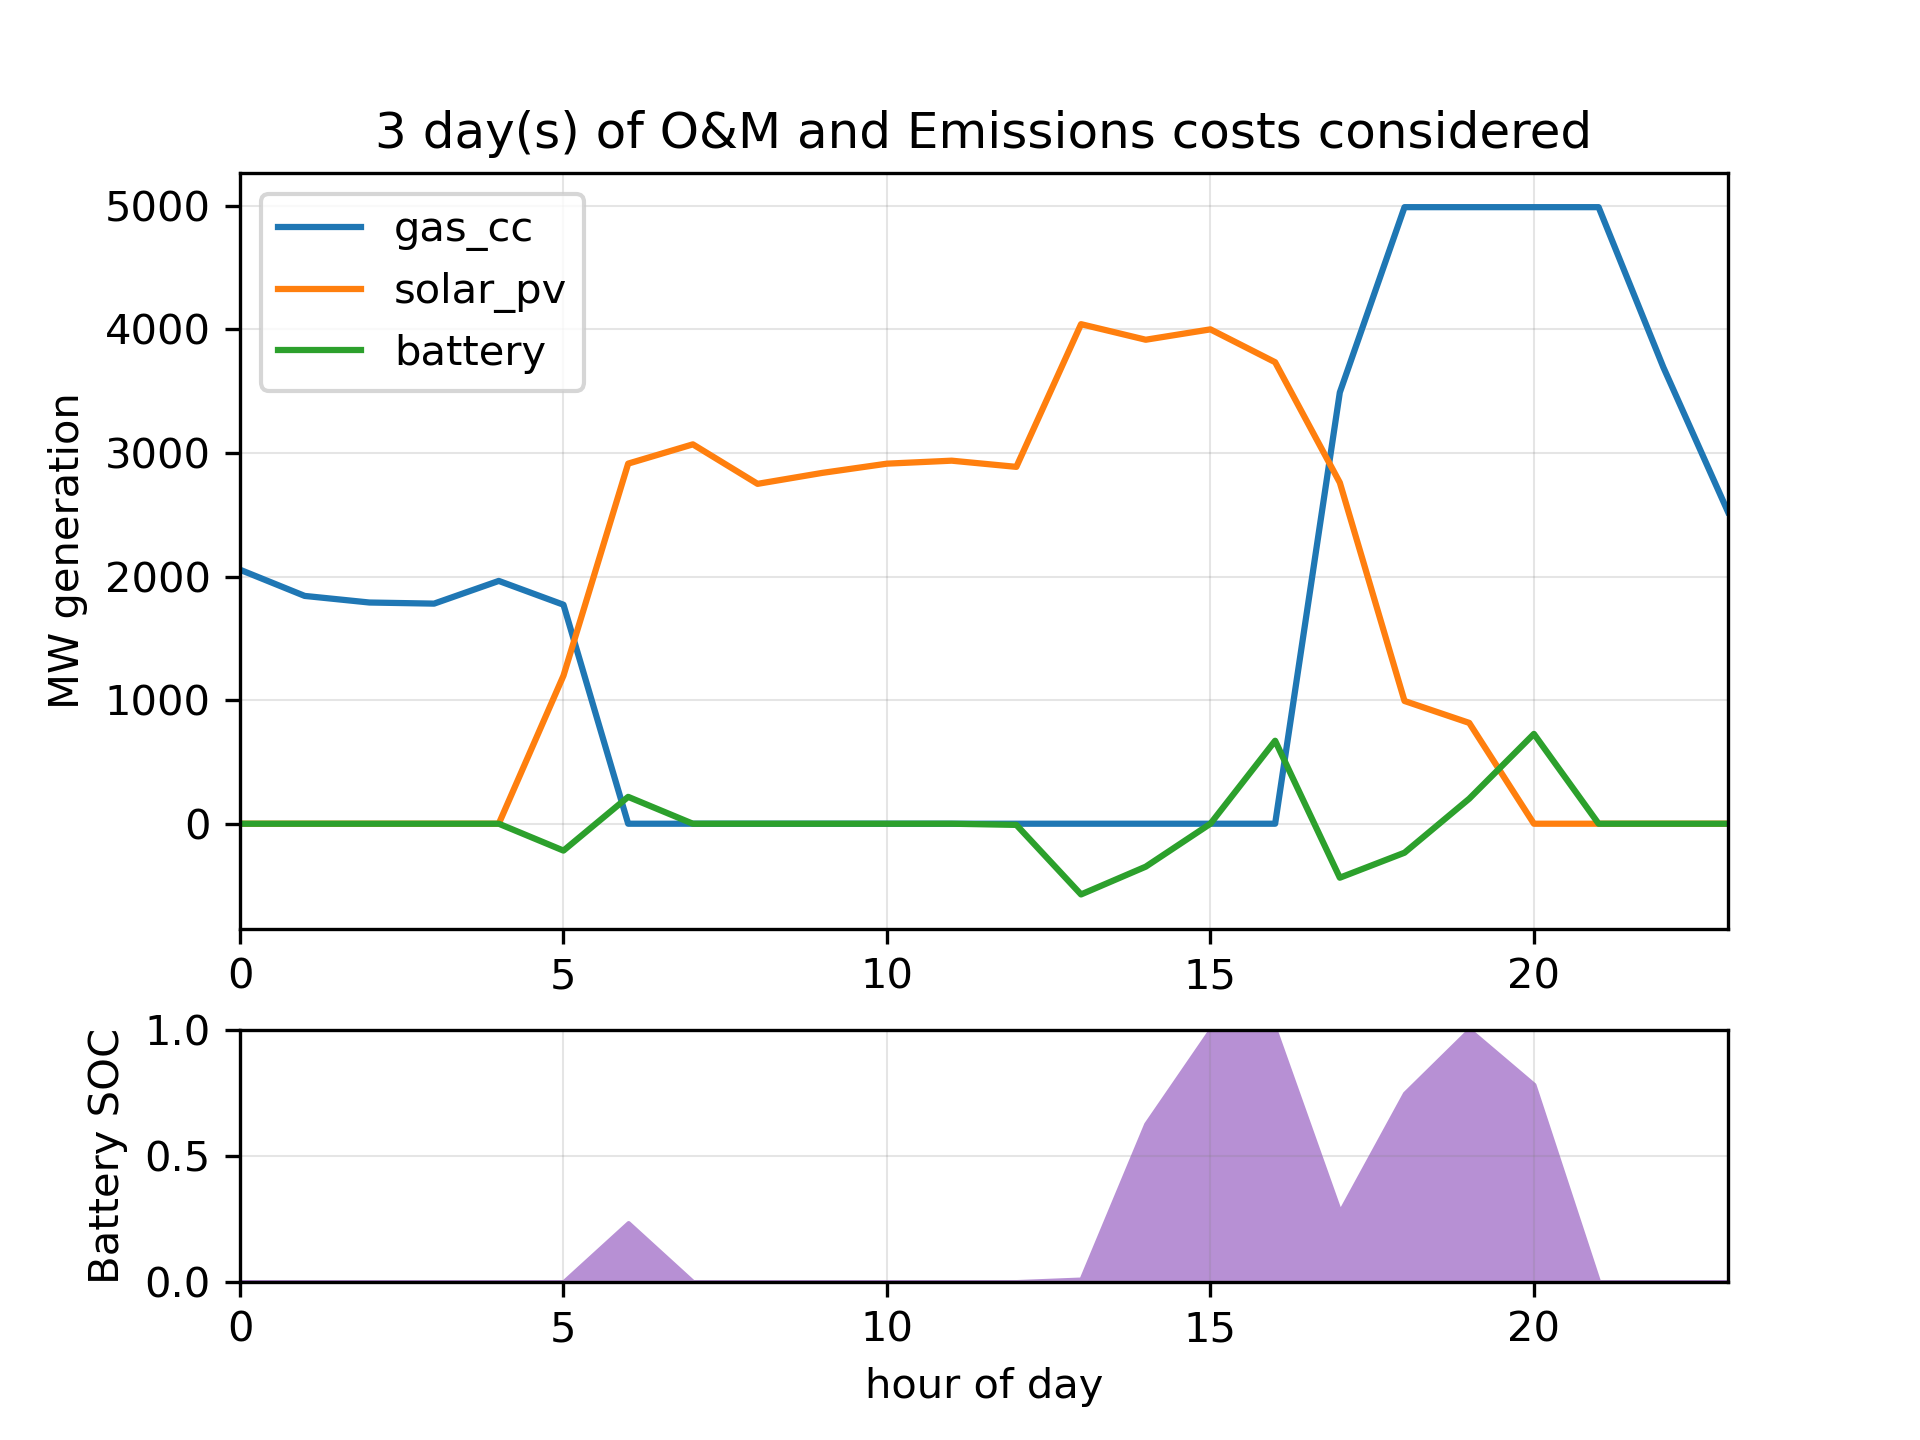
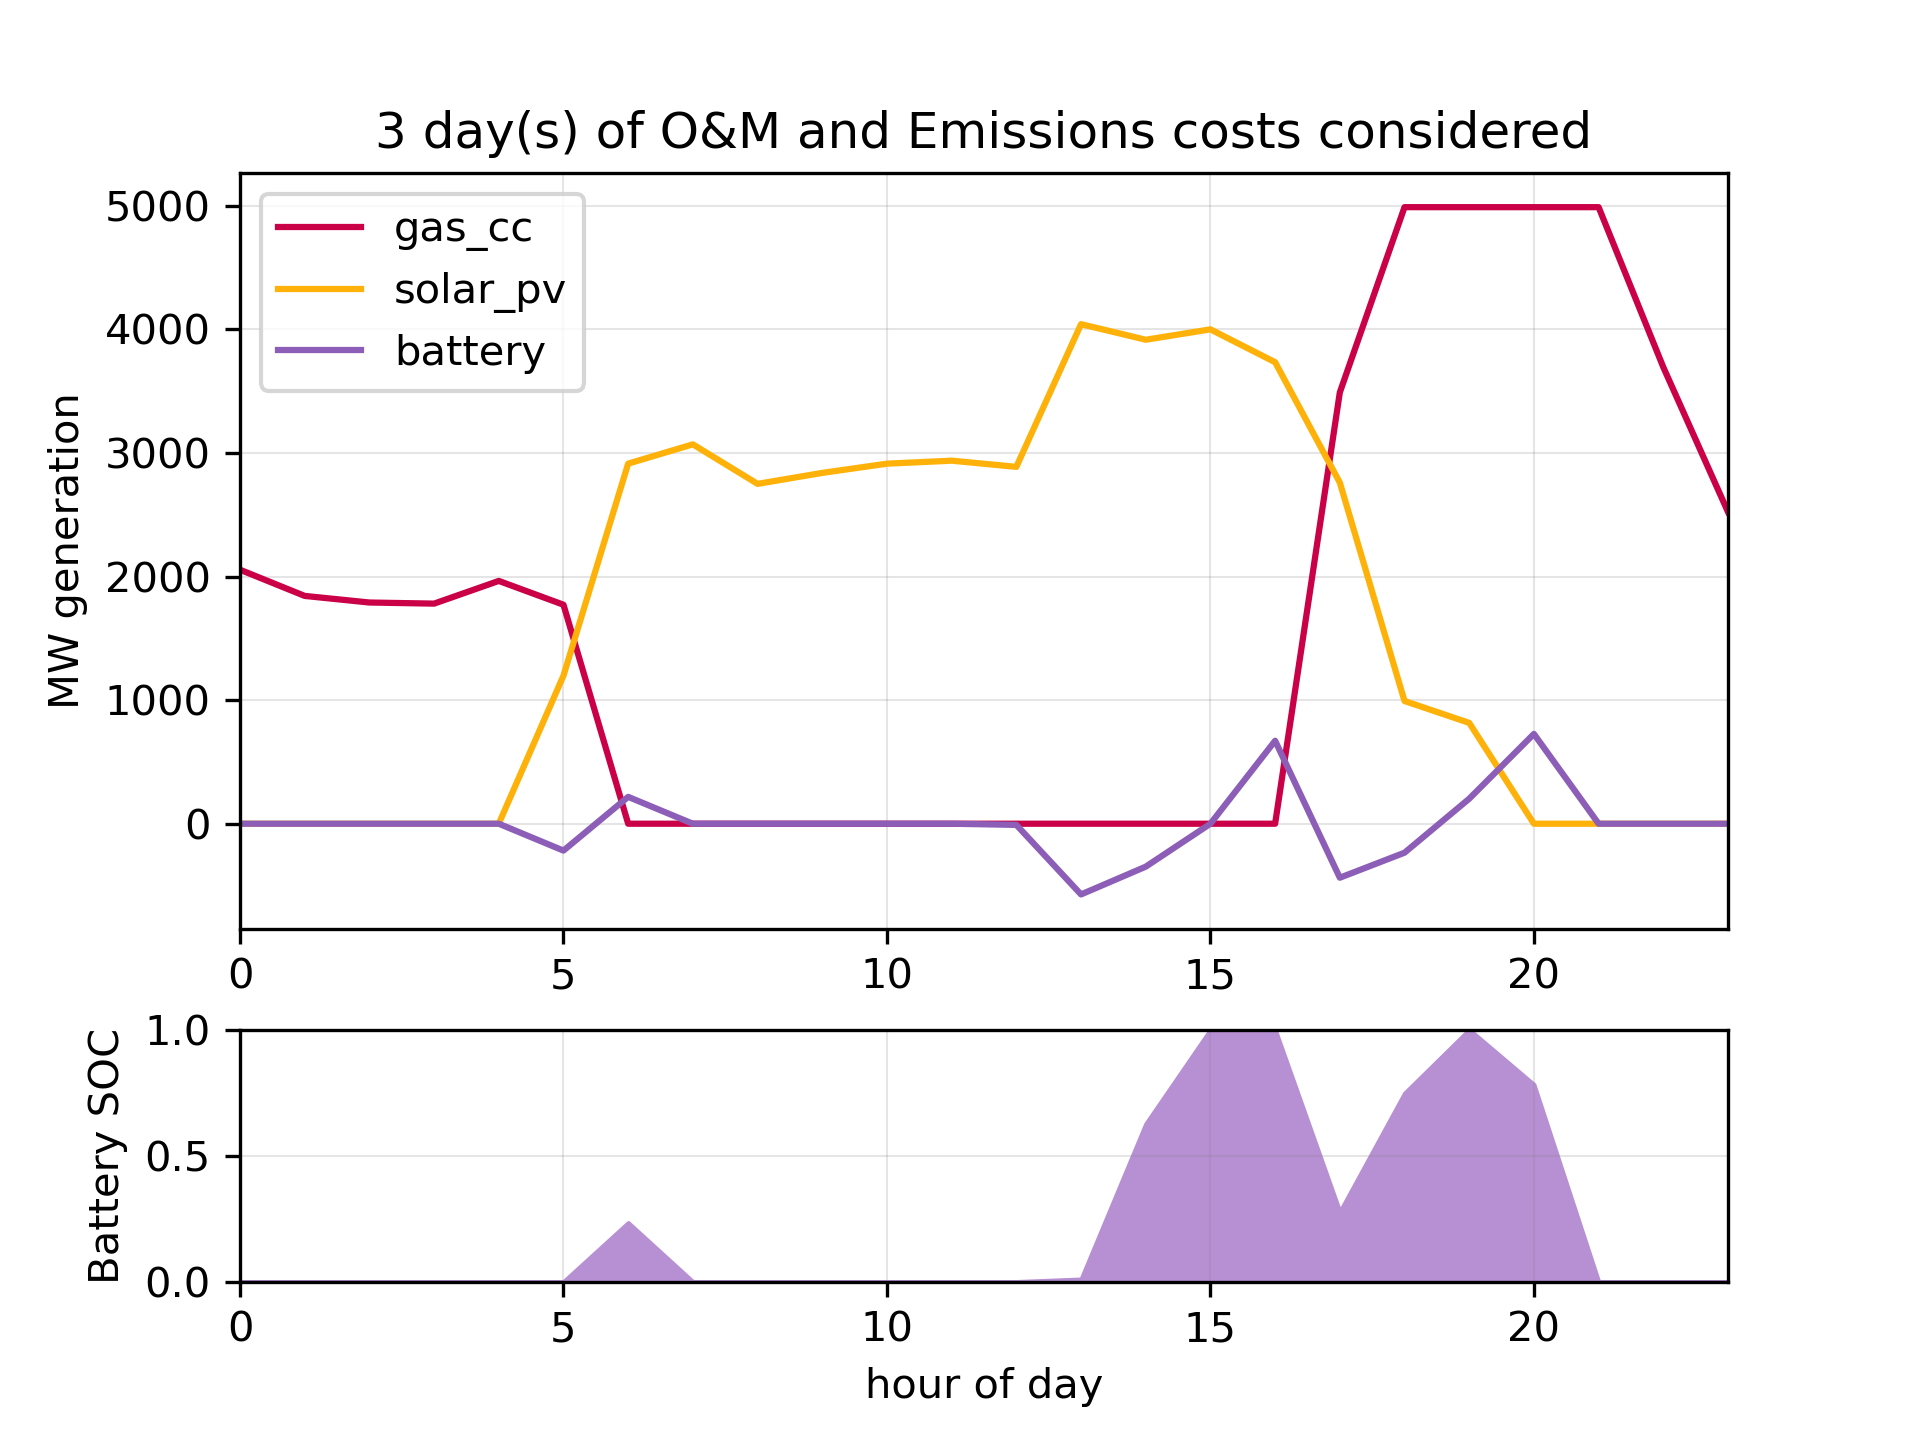
consistent colors

diff --git a/capacity_expansion.py b/capacity_expansion.py
@@ -193,11 +193,19 @@ def run_model(days):
     ax2.set_xlabel("hour of day")
     ax.set_ylabel("MW generation")
 
+    colors = {
+        "coal": "xkcd:dark",
+        "gas_cc": "xkcd:ruby",
+        "gas": "xkcd:gross green",
+        "solar_pv": "xkcd:saffron",
+        "battery": "xkcd:deep lavender",
+    }
     for gen_type in generation_chosen.generators.unique():
         ax.plot(
             range(24),
             (P.records[P.records.generators == gen_type]).level,
             label=gen_type,
+            color=colors[gen_type],
         )
     ax.legend(loc="upper left")
 

diff --git a/halp.py b/halp.py
@@ -1,3 +1,4 @@
+# %%
 from gamspy import Container, Set, Variable
 
 # Initialize the model container
@@ -13,4 +14,4 @@ SOC = Variable(m, name="SOC", domain=t, type="positive")
 SOC.up = 1
 
 # Fix 'SOC' at element 't2' to a value of 0.5
-SOC["t2"].fx = 0.5
+SOC.fx["t2"] = 0.5
